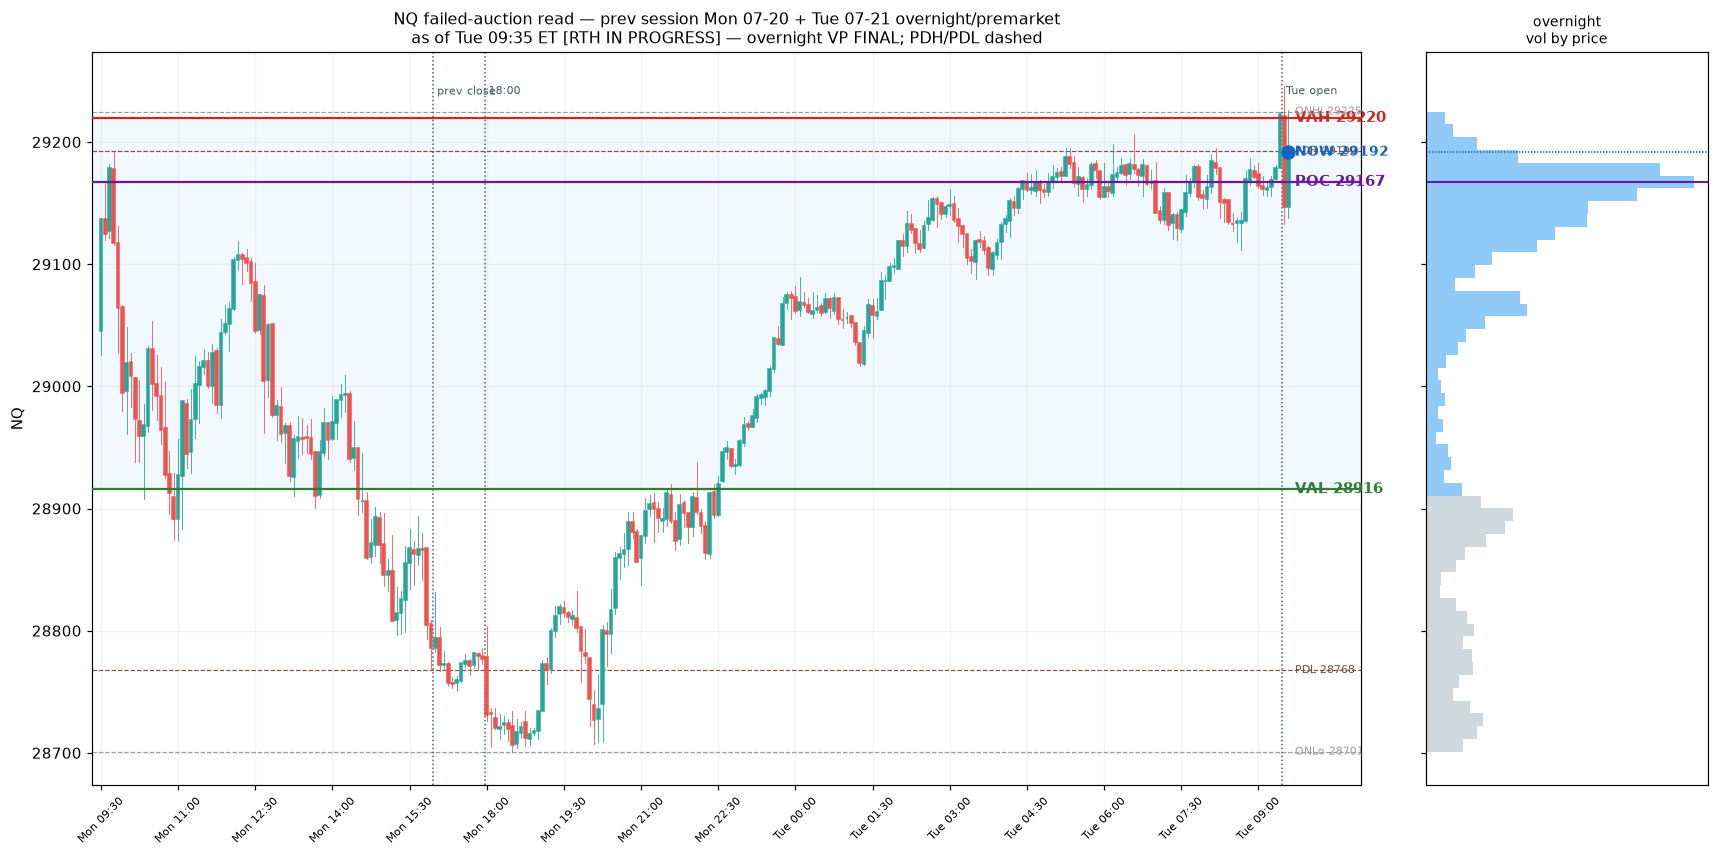
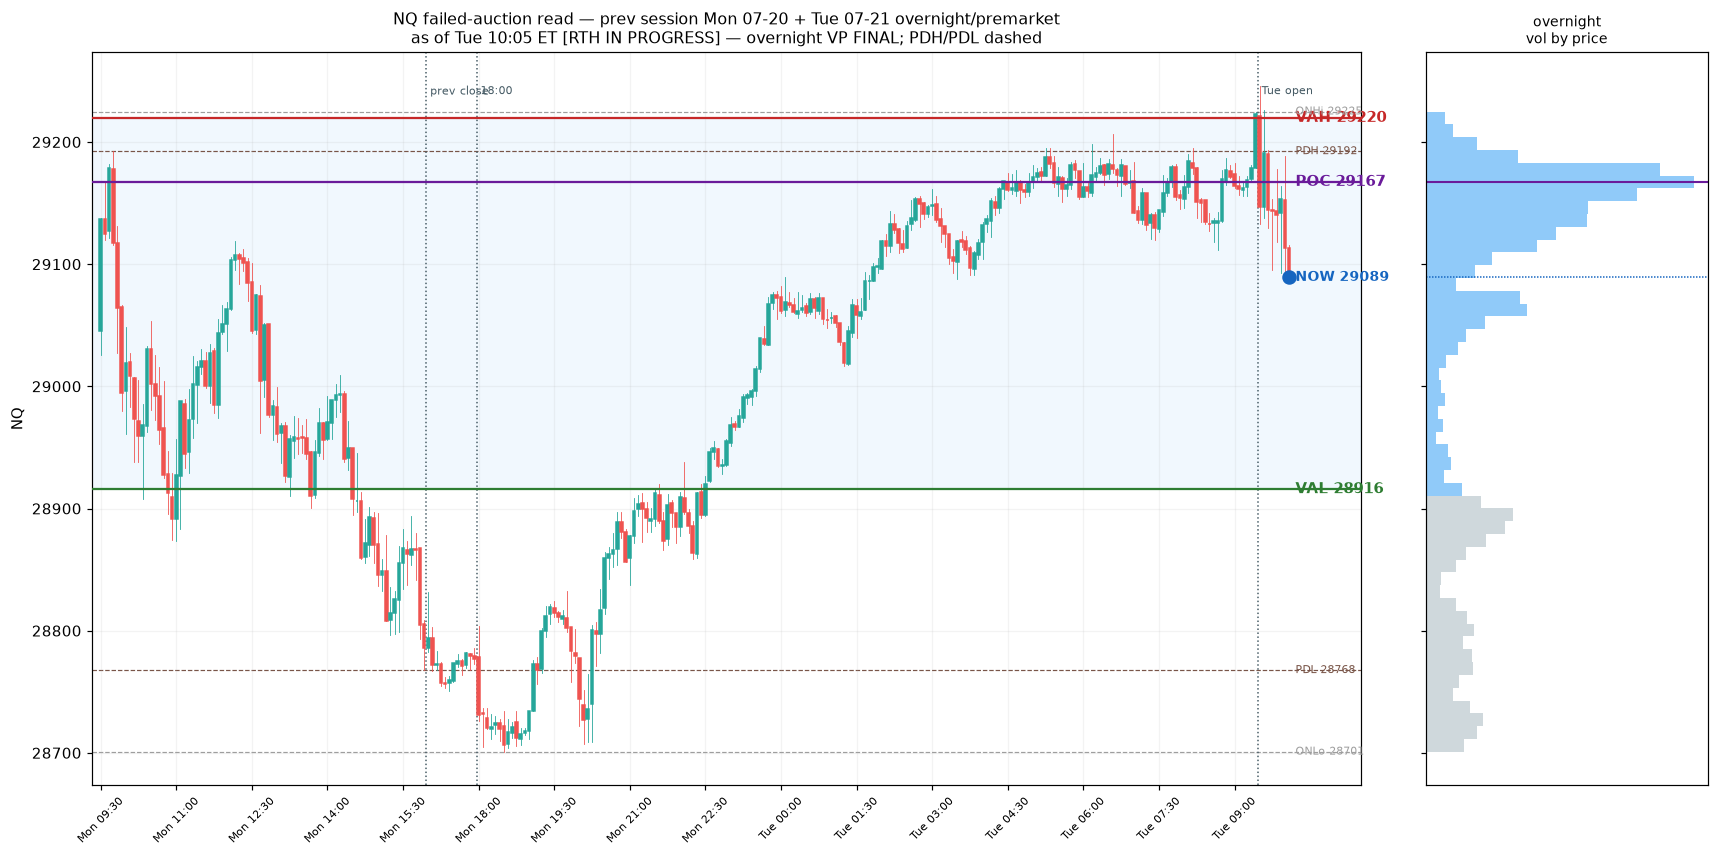
overnight_setup: use real reclaim entry for R:R; NQ 10:05 run
R:R now reflects the ACTUAL triggered trade (reclaim entry + stop beyond the
poke) instead of the idealized enter-at-the-edge geometry, and only counts
value-area targets still ahead in the trade direction. Also prints the RTH
interaction (touch/acceptance/trigger) per edge.

Tue 2026-07-21 10:05 ET: VAH failed-auction short TRIGGERED at the open (poke
29246 above ON high, reclaim ~29147); POC already behind entry so target is
VAL 28916 - ~2.2R structural / ~5.3R tight. Price 29089, working toward VAL.

Claude-Session: https://claude.ai/code/session_016aQdjV8pEkud2m7UoLztFR

diff --git a/scripts/overnight_setup.py b/scripts/overnight_setup.py
@@ -140,27 +140,54 @@ def run(sym: str) -> None:
         reads["short"] = reclaim(rth, vah, "high")
         reads["long"] = reclaim(rth, val, "low")
 
-    # R:R geometry (short at VAH -> POC / VAL ; long at VAL -> POC / VAH)
+    # R:R geometry. If a setup has actually TRIGGERED, use the real reclaim
+    # entry and real poke extreme (a reclaim close often sits well inside the
+    # level, so POC can already be behind you); else show the idealized plan.
+    va = vah - val
+
     def rr_block(side):
-        if side == "short":
-            entry, struct_stop, tight_stop = vah, on_hi, vah * (1 + TIGHT_BUFFER_FRAC)
-            t1, t2 = poc, val
+        r = reads.get(side)
+        edge = vah if side == "short" else val
+        sign = -1 if side == "short" else 1     # profit direction
+        triggered = bool(r and r.get("status") == "reclaim")
+        if triggered:
+            entry = r["entry"]
+            struct_stop = r["ext"] + (5 if side == "short" else -5)
+            tight_stop = entry * (1 + sign * -TIGHT_BUFFER_FRAC)
+            header = f"  {side.upper()} TRIGGERED - actual entry {entry:.0f} (reclaim), stop beyond poke {r['ext']:.0f}"
         else:
-            entry, struct_stop, tight_stop = val, on_lo, val * (1 - TIGHT_BUFFER_FRAC)
-            t1, t2 = poc, vah
-        s1, s2, sr = rr(entry, struct_stop, t1, t2)
-        t1r, t2r, tr = rr(entry, tight_stop, t1, t2)
-        va = vah - val
-        flags = []
-        if sr < tr:            # ON extreme sits on the VA edge -> structural stop unreal
-            flags.append("structural stop degenerate (overnight extreme hugs the edge)")
-        if abs(entry - t1) < 0.15 * va:   # POC jammed against this edge
-            flags.append("POC hugs this edge -> T1 trivial, use the far target")
-        quality = "AWKWARD: " + "; ".join(flags) if flags else "clean geometry"
-        return (f"  {side.upper()} @ {'VAH' if side=='short' else 'VAL'} {entry:.0f} -> T1(POC) {t1:.0f}, T2 {t2:.0f}\n"
-                f"     structural stop {struct_stop:.0f} (risk {sr:.0f}pt): {s1:.1f}R / {s2:.1f}R\n"
-                f"     tight stop {tight_stop:.0f} (risk {tr:.0f}pt, ~1-min): {t1r:.1f}R / {t2r:.1f}R\n"
-                f"     -> {quality}")
+            entry = edge
+            struct_stop = on_hi + 5 if side == "short" else on_lo - 5
+            tight_stop = edge * (1 + sign * -TIGHT_BUFFER_FRAC)
+            header = f"  {side.upper()} plan - entry at {'VAH' if side=='short' else 'VAL'} {edge:.0f}"
+        cands = [("POC", poc), ("VAL" if side == "short" else "VAH", val if side == "short" else vah)]
+        valid = [(n, p) for n, p in cands if sign * (p - entry) > 0]  # targets still ahead
+        if not valid:
+            return header + "\n     (no value-area target left in the trade's direction)"
+        out = [header]
+        for stop, lab in [(struct_stop, "structural"), (tight_stop, "tight ~1-min")]:
+            risk = abs(entry - stop)
+            rrs = " ".join(f"{n} {abs(entry-p)/risk:.1f}R" for n, p in valid) if risk else "n/a"
+            out.append(f"     {lab} stop {stop:.0f} (risk {risk:.0f}pt): {rrs}")
+        if not triggered:
+            flags = []
+            if abs(entry - (on_hi if side == "short" else on_lo)) < 0.03 * va:
+                flags.append("structural stop degenerate (overnight extreme hugs the edge)")
+            if abs(entry - valid[0][1]) < 0.15 * va:
+                flags.append("nearest target trivial -> use the far one")
+            out.append("     -> " + ("AWKWARD: " + "; ".join(flags) if flags else "clean geometry"))
+        return "\n".join(out)
+    if len(rth):
+        print(f"RTH so far ({rth.index.min():%H:%M}->{rth.index.max():%H:%M}): "
+              f"O {rth['open'].iloc[0]:.0f} H {rth['high'].max():.0f} L {rth['low'].min():.0f} last {cur_px:.0f}")
+        for name, side, lvl in [("VAH short", "short", vah), ("VAL long", "long", val)]:
+            r = reads.get(side)
+            if not r:
+                print(f"  {name}: no touch of {lvl:.0f} yet")
+            elif r["status"] == "acceptance":
+                print(f"  {name}: poked {r['ext']:.0f} at {r['poke_t']:%H:%M} but NO reclaim = acceptance (no fade)")
+            else:
+                print(f"  {name}: TRIGGERED - poke {r['ext']:.0f}, reclaim {r['conf_t']:%H:%M} entry {r['entry']:.0f}")
     print("R:R geometry:")
     print(rr_block("short"))
     print(rr_block("long"))
